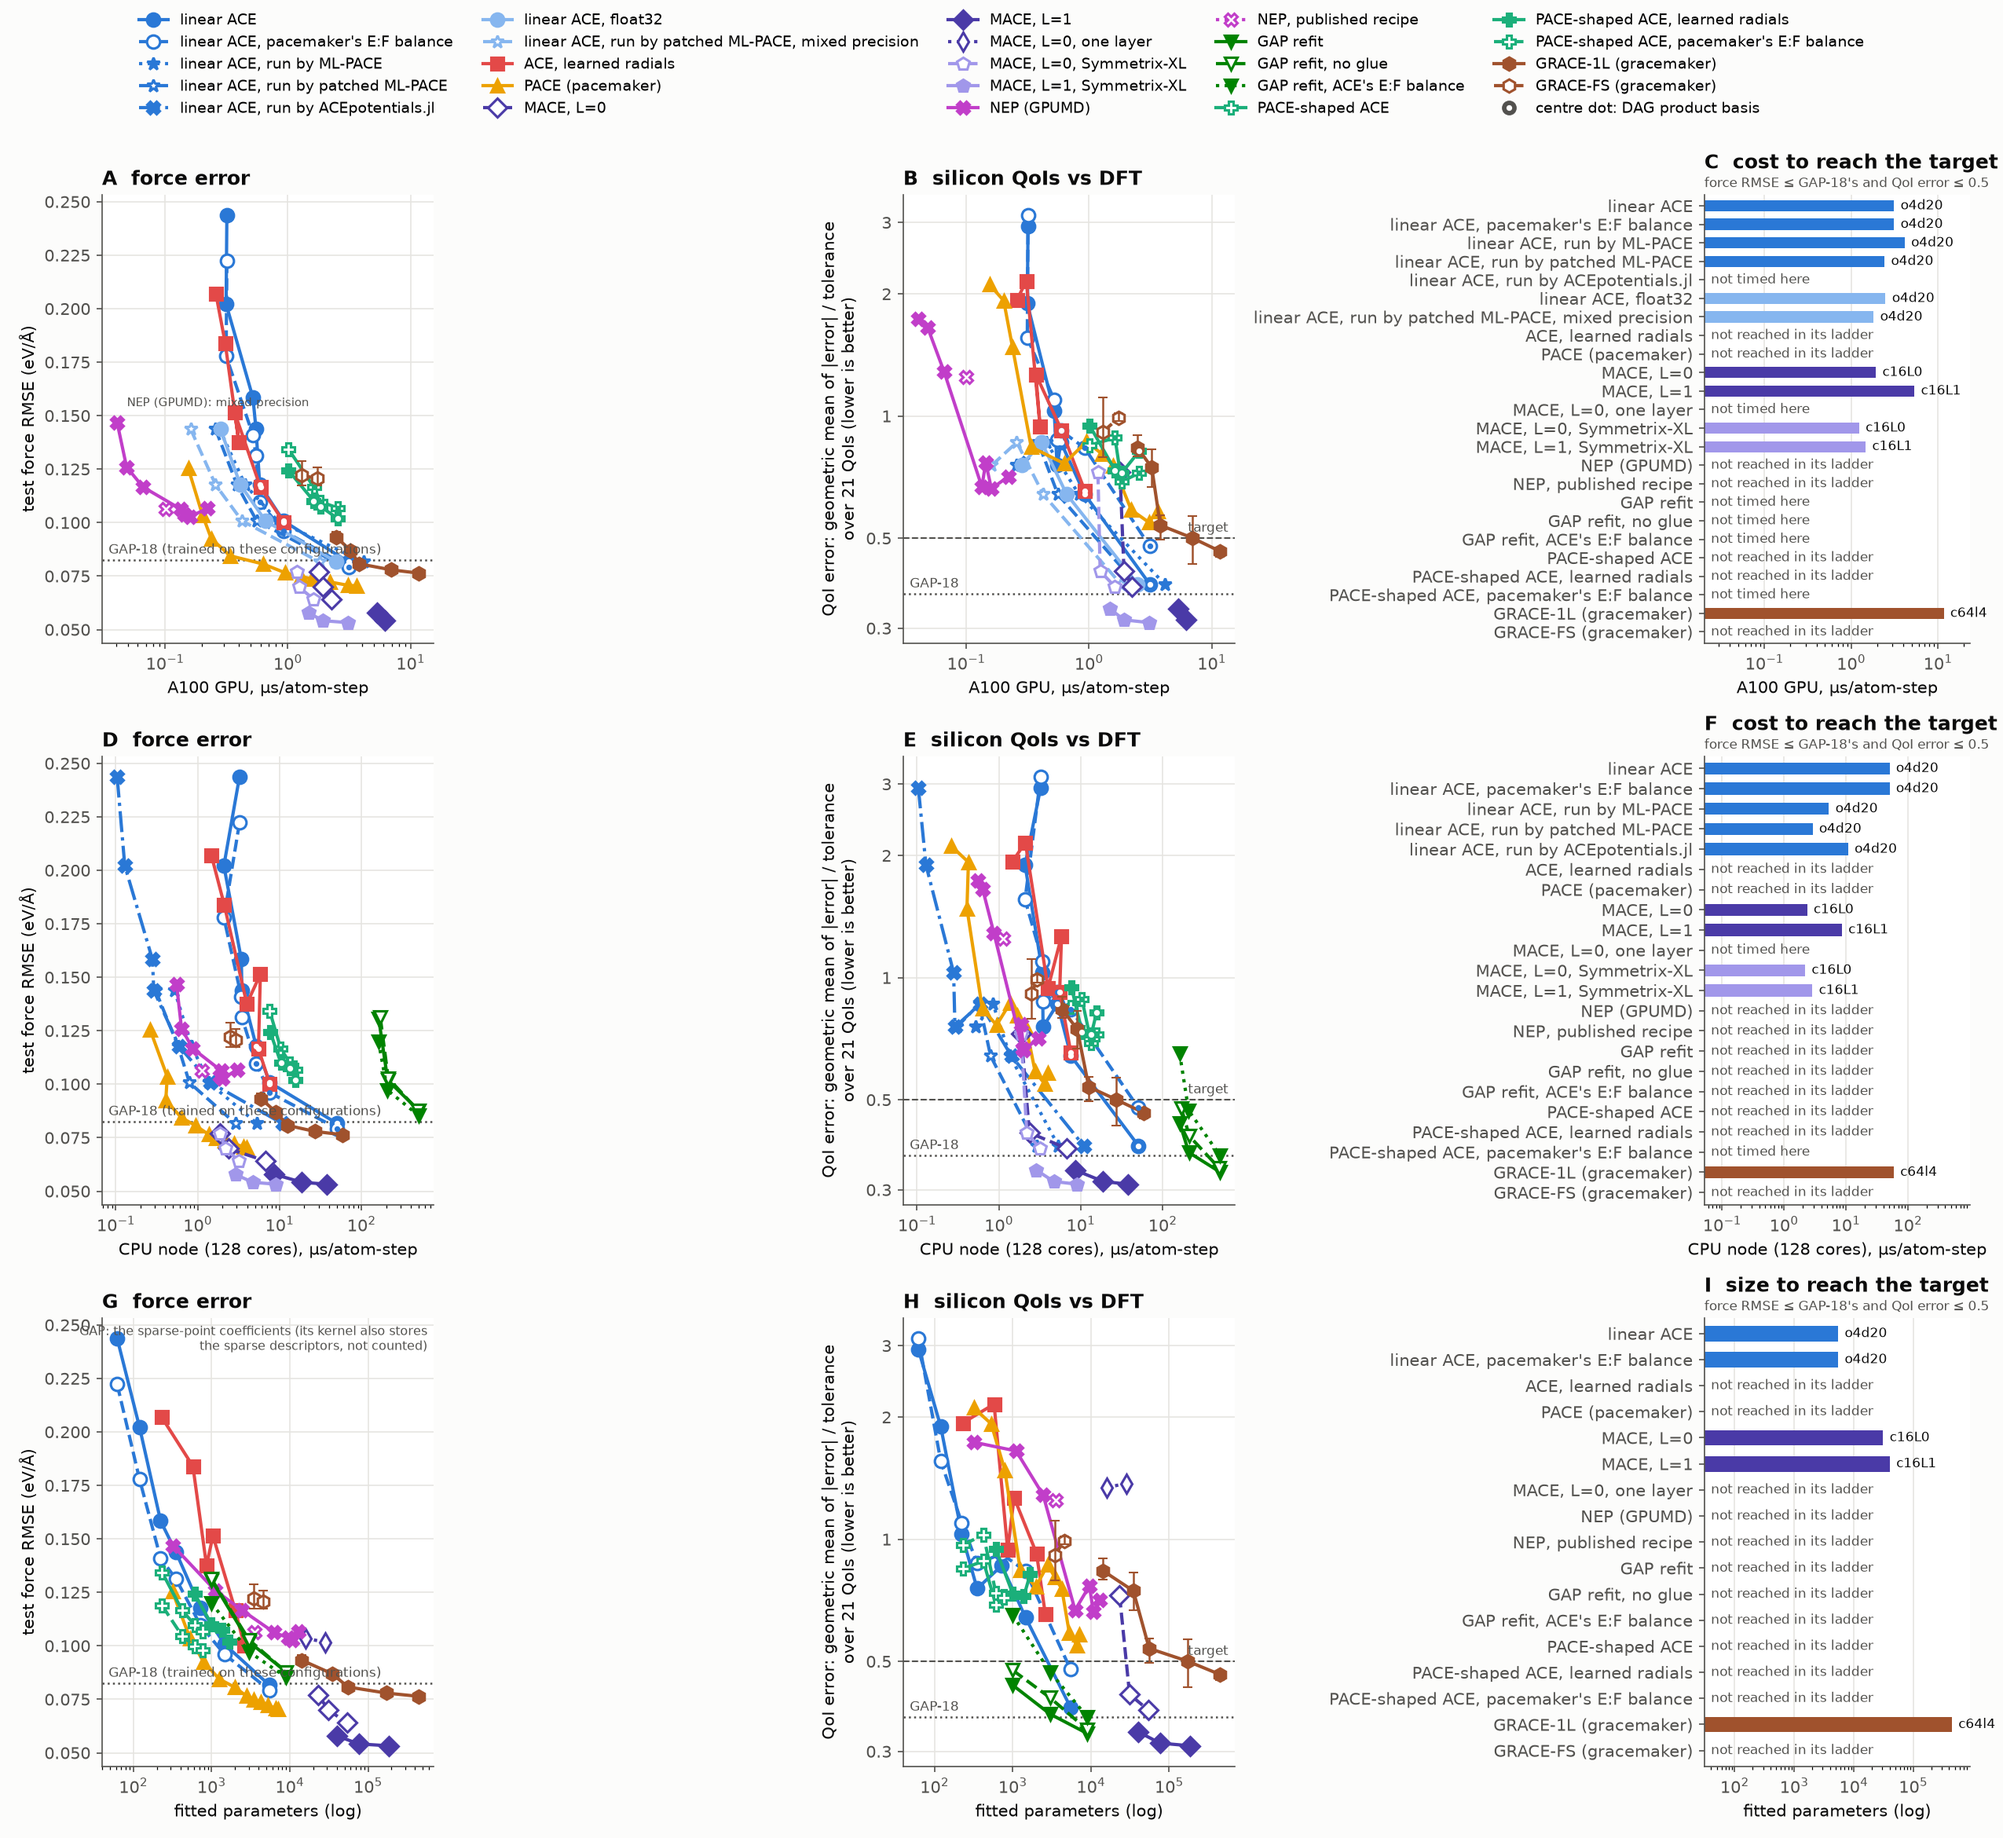
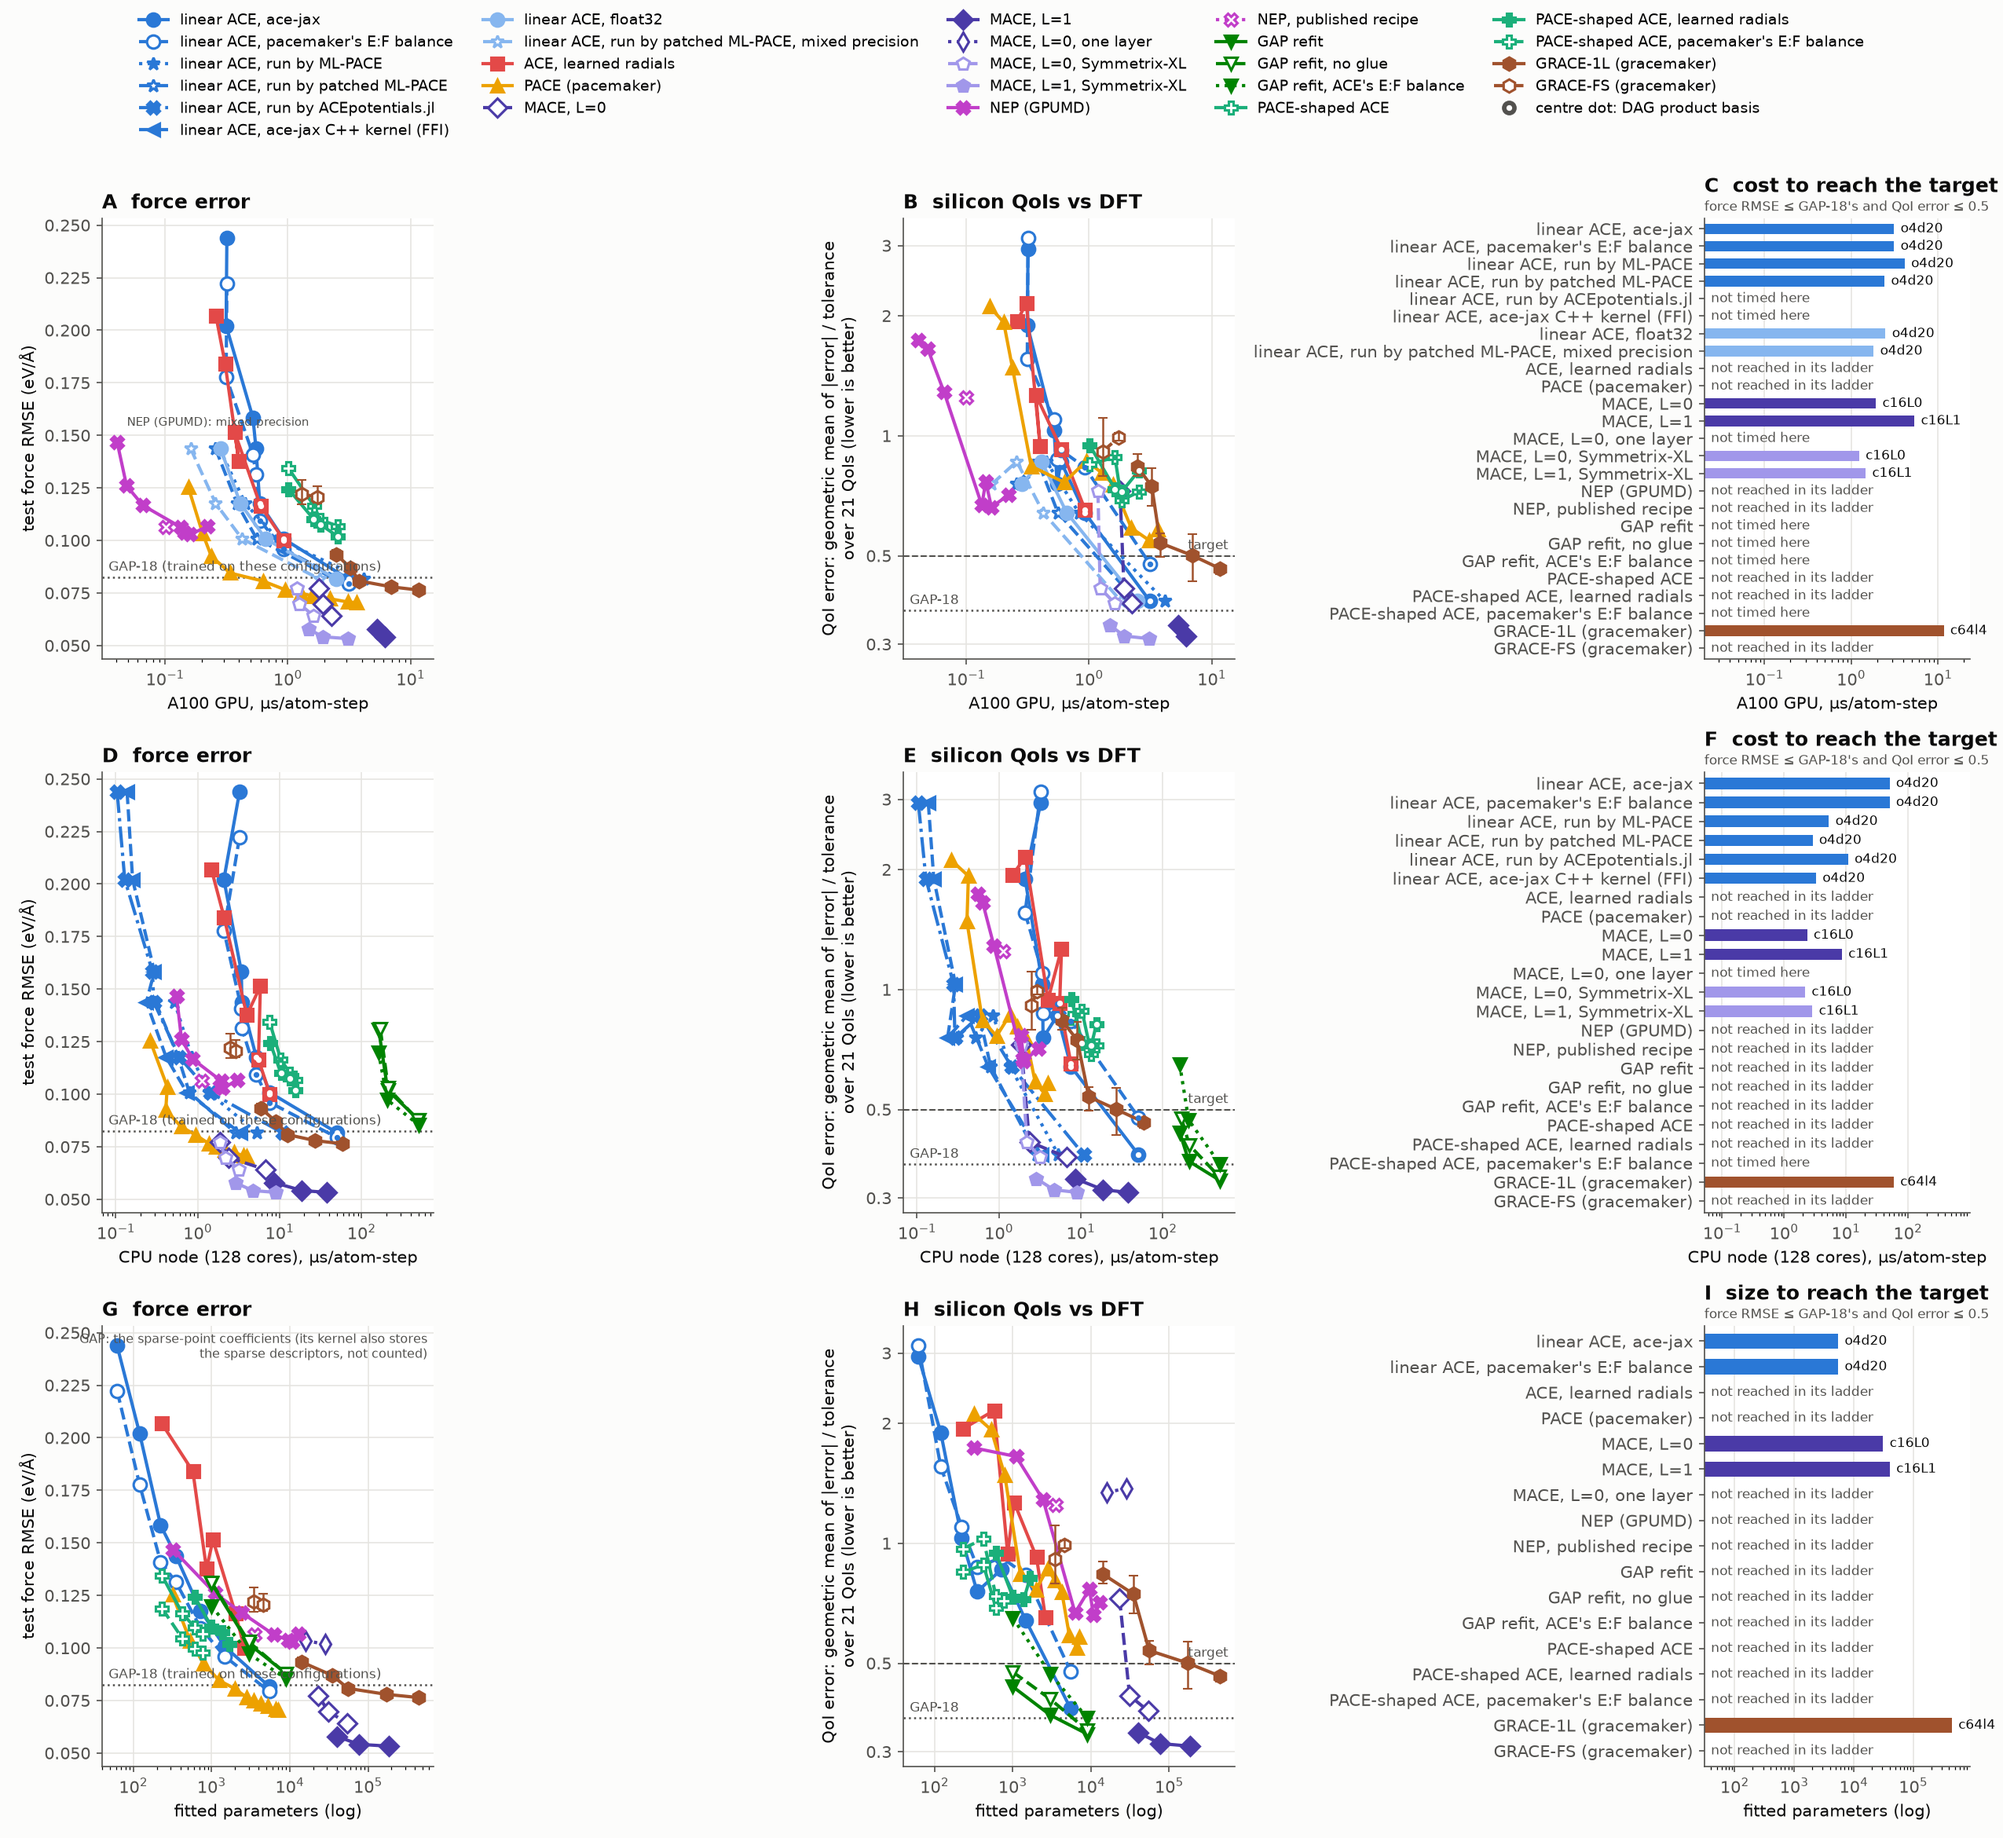
docs(bench): figures from #114's single cost files with the FFI line
The reproduce block is #114's (one CPU and one GPU cost file for every figure)
plus '-e ffi-xla' (the C++ kernel's same-node XLA control, not plotted); the
figures are regenerated by it.  The cost files and the Plotly spec already
matched the rows.

diff --git a/docs/dev/accuracy-cost-results.md b/docs/dev/accuracy-cost-results.md
@@ -218,12 +218,9 @@ chain-form rows are kept as `sulis-gpu-fp32-dot-F32_F32_F32.chain.jsonl`).
 R=bench/accuracy_cost/results/sulis; RR=bench/si_qoi/results
 grep -h '"code": "mlpace-mixed"' $R/sulis-gpu-fp32-o4d*.jsonl > $R/sulis-gpu-fp32-mixed.jsonl   # the mixed-precision line
 (cd bench && python -m accuracy_cost.dag_auto)
-CPU=$(ls $R/sulis-cpu*.jsonl | grep -v -e smoke -e ace_yace -e pacetab-check -e "ace_tab\.jsonl" -e ace_tab2 \
-      -e ace_tab3 -e dagpair -e ffi-xla)          # ffi-xla: the C++ kernel's same-node XLA control, not plotted
 python bench/si_qoi/make_cost.py --dtype float64 --source acejax-ace=sulis-cpu-128x1-acejax-auto --out $RR/cost_sulis_cpu.json \
-    $(echo "$CPU" | grep -v grace)
-python bench/si_qoi/make_cost.py --dtype float64 --source acejax-ace=sulis-cpu-128x1-acejax-auto \
-    --out $RR/cost_sulis_cpu_grace.json $CPU     # the docs page's CPU row: the same rows plus GRACE's
+    $(ls $R/sulis-cpu*.jsonl | grep -v -e smoke -e ace_yace -e pacetab-check -e "ace_tab\.jsonl" -e ace_tab2 \
+      -e ace_tab3 -e dagpair -e ffi-xla)          # ffi-xla: the C++ kernel's same-node XLA control, not plotted
 python bench/si_qoi/make_cost.py --dtype float64 --source acejax-ace=sulis-gpu-acejax-auto --out $RR/cost_sulis_gpu.json \
     bench/accuracy_cost/results/sulis-gpu.jsonl bench/accuracy_cost/results/sulis-gpu-ace-splined.jsonl \
     $R/sulis-gpu-ace-splined-v2.jsonl $R/sulis-gpu-v2.jsonl $R/sulis-gpu-mace_xl.jsonl \
